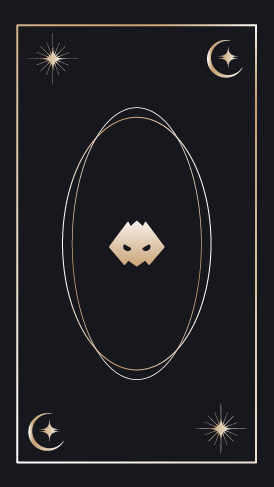
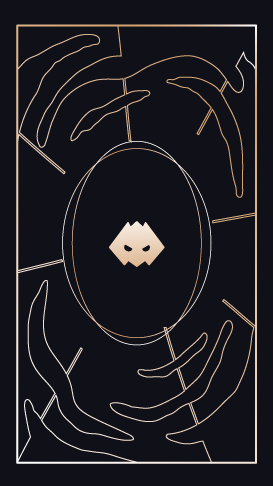
updates

diff --git a/src/phasmophobia/src/triggered-voodoo.js b/src/phasmophobia/src/triggered-voodoo.js
@@ -60,6 +60,7 @@ let cursorDownSub;
 let dollImage;
 let curseDoll;
 let cursor;
+
 // INPUTS PARAMS
 
 let clickKey, reminder, timer;
@@ -152,12 +153,18 @@ const createVoodooDoll = (initialX, initialY, voodooScale) => {
       },
       animationSpeed: 0.5,
       hitbox: [
-        -77 * voodooScale, -114 * voodooScale,
-        27 * voodooScale, -116 * voodooScale,
-        118 * voodooScale, 70 * voodooScale,
-        22 * voodooScale, 112 * voodooScale,
-        -70 * voodooScale, 107 * voodooScale,
-        -117 * voodooScale, 23 * voodooScale,
+        -77 * voodooScale,
+        -114 * voodooScale,
+        27 * voodooScale,
+        -116 * voodooScale,
+        118 * voodooScale,
+        70 * voodooScale,
+        22 * voodooScale,
+        112 * voodooScale,
+        -70 * voodooScale,
+        107 * voodooScale,
+        -117 * voodooScale,
+        23 * voodooScale,
       ],
       debug: true,
     });
@@ -179,6 +186,7 @@ const createVoodooDoll = (initialX, initialY, voodooScale) => {
         animationSpeed: 0.5,
       });
       dollImage.destroy();
+      deleteVoodooDoll();
     };
   };
 
@@ -219,11 +227,16 @@ const createVoodooDoll = (initialX, initialY, voodooScale) => {
       },
       animationSpeed: 0.5,
       hitbox: [
-        -78 * voodooScale, -14 * voodooScale,
-        55 * voodooScale, -53 * voodooScale,
-        77 * voodooScale, -33 * voodooScale,
-        48 * voodooScale, 2 * voodooScale,
-        -49 * voodooScale, 53 * voodooScale,
+        -78 * voodooScale,
+        -14 * voodooScale,
+        55 * voodooScale,
+        -53 * voodooScale,
+        77 * voodooScale,
+        -33 * voodooScale,
+        48 * voodooScale,
+        2 * voodooScale,
+        -49 * voodooScale,
+        53 * voodooScale,
       ],
       debug: true,
     });
@@ -245,9 +258,8 @@ const createVoodooDoll = (initialX, initialY, voodooScale) => {
         animationSpeed: 0.5,
       });
       dollImage.destroy();
+      deleteVoodooDoll();
     };
-
-    return rightArm;
   };
 
   const createBody = () => {
@@ -255,7 +267,7 @@ const createVoodooDoll = (initialX, initialY, voodooScale) => {
       isClickable: true,
       controller: {
         isPressable: true,
-        button: "FACE_1",
+        button: "FACE_3",
         x: 0,
         y: 25,
         scale: {
@@ -287,11 +299,16 @@ const createVoodooDoll = (initialX, initialY, voodooScale) => {
       },
       animationSpeed: 0.5,
       hitbox: [
-        -34 * voodooScale, -106 * voodooScale,
-        58 * voodooScale, -101 * voodooScale,
-        106 * voodooScale, 57 * voodooScale,
-        -19 * voodooScale, 115 * voodooScale,
-        -105 * voodooScale, 29 * voodooScale,
+        -34 * voodooScale,
+        -106 * voodooScale,
+        58 * voodooScale,
+        -101 * voodooScale,
+        106 * voodooScale,
+        57 * voodooScale,
+        -19 * voodooScale,
+        115 * voodooScale,
+        -105 * voodooScale,
+        29 * voodooScale,
       ],
       debug: true,
     });
@@ -313,9 +330,8 @@ const createVoodooDoll = (initialX, initialY, voodooScale) => {
         animationSpeed: 0.5,
       });
       dollImage.destroy();
+      deleteVoodooDoll();
     };
-
-    return body;
   };
 
   const createLeftArm = () => {
@@ -355,11 +371,16 @@ const createVoodooDoll = (initialX, initialY, voodooScale) => {
       },
       animationSpeed: 0.5,
       hitbox: [
-        -73 * voodooScale, -61 * voodooScale,
-        -35 * voodooScale, -67 * voodooScale,
-        72 * voodooScale, 17 * voodooScale,
-        25 * voodooScale, 67 * voodooScale,
-        -51 * voodooScale, -21 * voodooScale,
+        -73 * voodooScale,
+        -61 * voodooScale,
+        -35 * voodooScale,
+        -67 * voodooScale,
+        72 * voodooScale,
+        17 * voodooScale,
+        25 * voodooScale,
+        67 * voodooScale,
+        -51 * voodooScale,
+        -21 * voodooScale,
       ],
       debug: true,
     });
@@ -381,8 +402,8 @@ const createVoodooDoll = (initialX, initialY, voodooScale) => {
         animationSpeed: 0.5,
       });
       dollImage.destroy();
+      deleteVoodooDoll();
     };
-    return leftArm;
   };
 
   const createRightLeg = () => {
@@ -422,10 +443,14 @@ const createVoodooDoll = (initialX, initialY, voodooScale) => {
       },
       animationSpeed: 0.5,
       hitbox: [
-        -50 * voodooScale, -67 * voodooScale,
-        -1 * voodooScale, -7 * voodooScale,
-        -98 * voodooScale, 67 * voodooScale,
-        -149 * voodooScale, -7 * voodooScale,
+        -50 * voodooScale,
+        -67 * voodooScale,
+        -1 * voodooScale,
+        -7 * voodooScale,
+        -98 * voodooScale,
+        67 * voodooScale,
+        -149 * voodooScale,
+        -7 * voodooScale,
       ],
       debug: true,
     });
@@ -447,8 +472,8 @@ const createVoodooDoll = (initialX, initialY, voodooScale) => {
         animationSpeed: 0.5,
       });
       dollImage.destroy();
+      deleteVoodooDoll();
     };
-    return leftLeg;
   };
 
   const createLeftLeg = () => {
@@ -488,10 +513,14 @@ const createVoodooDoll = (initialX, initialY, voodooScale) => {
       },
       animationSpeed: 0.5,
       hitbox: [
-        -60 * voodooScale, -49 * voodooScale,
-        -16 * voodooScale, -77 * voodooScale,
-        60 * voodooScale, 36 * voodooScale,
-        -21 * voodooScale, 77 * voodooScale,
+        -60 * voodooScale,
+        -49 * voodooScale,
+        -16 * voodooScale,
+        -77 * voodooScale,
+        60 * voodooScale,
+        36 * voodooScale,
+        -21 * voodooScale,
+        77 * voodooScale,
       ],
       debug: true,
     });
@@ -513,8 +542,8 @@ const createVoodooDoll = (initialX, initialY, voodooScale) => {
         animationSpeed: 0.5,
       });
       dollImage.destroy();
+      deleteVoodooDoll();
     };
-    return rightLeg;
   };
 
   createDollImage();
@@ -572,8 +601,18 @@ const createHUD = () => {
     }
   );
   timer.onTimerFinish = () => {
-    // if (checkfinished) {
-    //   timer.remove(false);
-    // }
+    timer.remove();
   };
+};
+
+const deleteVoodooDoll = () => {
+  head.remove();
+  leftArm.remove();
+  rightArm.remove();
+  leftLeg.remove();
+  rightLeg.remove();
+  body.remove();
+  curseDoll.remove();
+  timer.remove(false);
+  reminder.remove();
 };

diff --git a/src/phasmophobia/src/triggered-tarot-phasmo.js b/src/phasmophobia/src/triggered-tarot-phasmo.js
@@ -65,7 +65,7 @@ const images = [
   },
   {
     name: "deckAsset",
-    url: "https://raw.githubusercontent.com/Dixper/dixper-sdk-plugin-samples/main/src/phasmophobia/assets/images/voodoo-doll.png",
+    url: "https://raw.githubusercontent.com/Dixper/dixper-sdk-plugin-samples/main/src/phasmophobia/assets/images/deck.png",
   },
 ];
 
